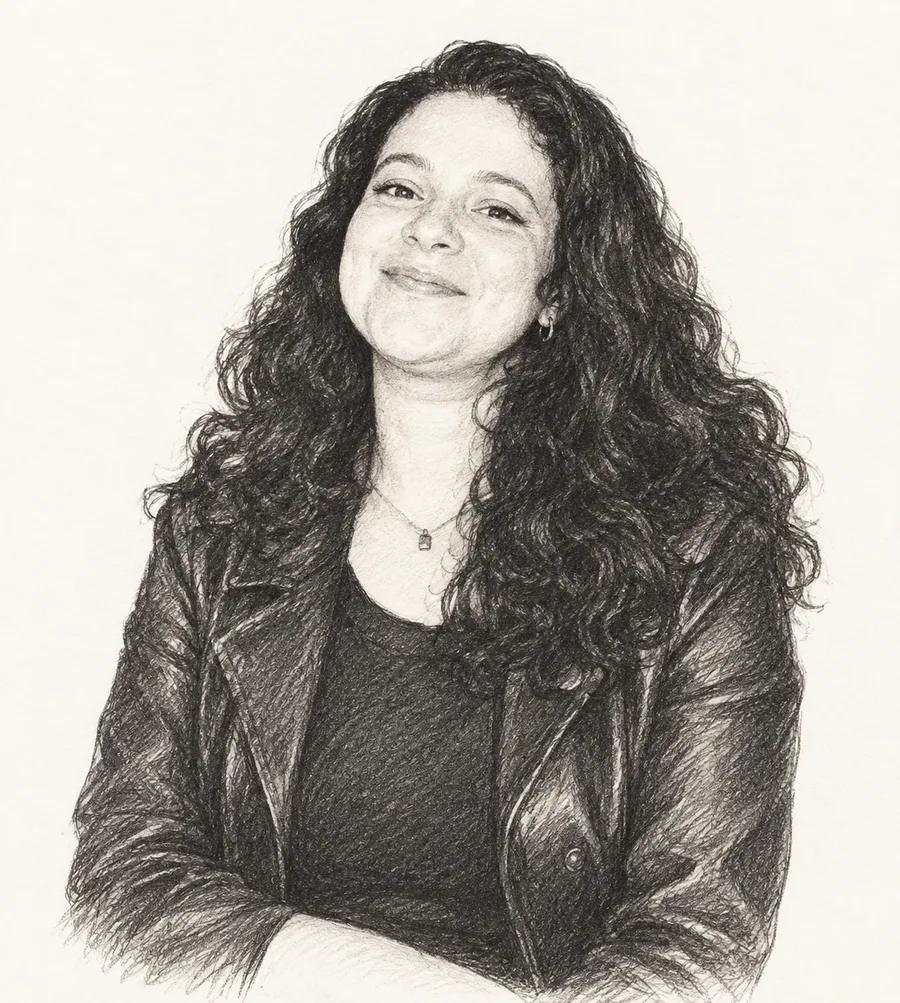
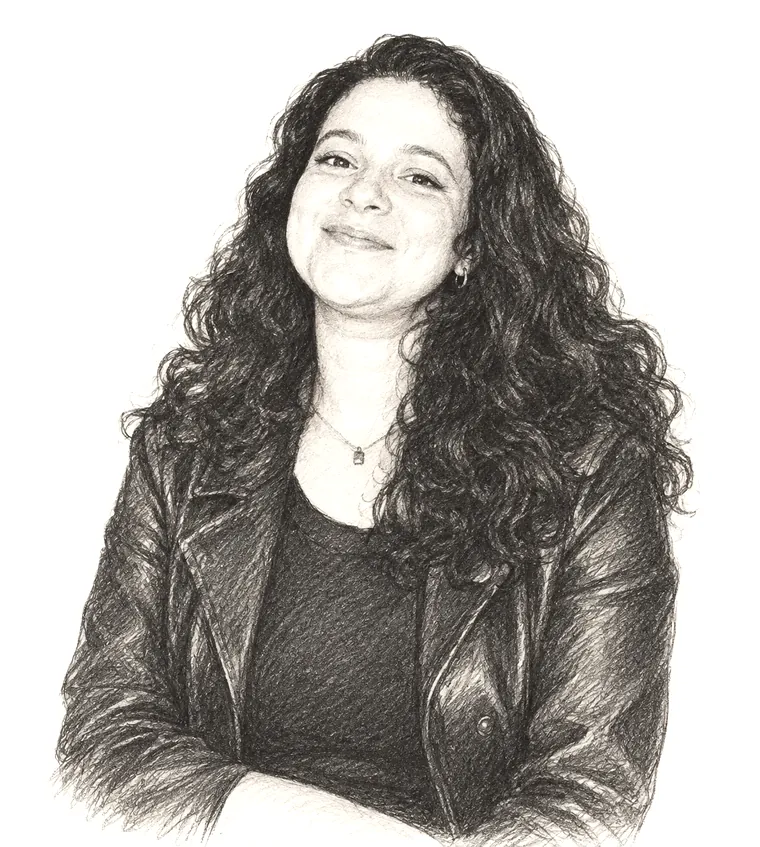
Add sketch portrait with drifting Alexandria map to About section
The pencil portrait sits beside the About text over a hand-drawn map of
Alexandria that slides and turns as the page scrolls. It stays still for
visitors who prefer reduced motion, stacks above the text on phones, and
sits on a light sheet in dark mode. The sketch's paper was whitened so it
blends into the page, which also replaces the larger transparent copy.

Claude-Session: https://claude.ai/code/session_01NE6ErSVsPQN87xJrjqYa3h

diff --git a/index.html b/index.html
@@ -47,6 +47,41 @@
 
     <section id="about" class="section">
       <h2><span class="num">I.</span> About</h2>
+      <div class="about">
+      <figure class="portrait">
+        <div class="portrait-map" aria-hidden="true">
+          <!-- Stylised map of Alexandria; it drifts as the page scrolls (see script at the bottom) -->
+          <svg viewBox="0 0 600 700" preserveAspectRatio="xMidYMid slice">
+            <path class="sea" d="M-20 150 C140 120 330 175 620 125" />
+            <path class="sea" d="M-20 110 C150 80 340 135 620 85" />
+            <path class="coast" d="M-20 210 C80 190 130 250 200 235 C260 222 265 165 310 172 C365 182 365 245 440 238 C510 232 550 200 620 208" />
+            <path class="harbour" d="M262 222 C275 150 352 150 368 222" />
+            <circle cx="310" cy="105" r="8" />
+            <text x="324" y="99">Pharos</text>
+            <text x="380" y="190" class="small">Eastern Harbour</text>
+            <line x1="-20" y1="360" x2="620" y2="322" />
+            <text x="400" y="318" class="small">Canopic Way</text>
+            <line x1="-20" y1="470" x2="620" y2="436" />
+            <line x1="-20" y1="570" x2="620" y2="538" />
+            <line x1="-20" y1="660" x2="620" y2="630" />
+            <line x1="40" y1="215" x2="70" y2="720" />
+            <line x1="125" y1="235" x2="155" y2="720" />
+            <line x1="210" y1="235" x2="240" y2="720" />
+            <line x1="300" y1="185" x2="330" y2="720" />
+            <line x1="390" y1="238" x2="420" y2="720" />
+            <line x1="475" y1="232" x2="505" y2="720" />
+            <line x1="560" y1="208" x2="590" y2="720" />
+            <g transform="translate(500 600)">
+              <circle r="38" />
+              <circle r="31" />
+              <path d="M0 -50 L7 0 L0 50 L-7 0 Z M-50 0 L0 -7 L50 0 L0 7 Z" />
+              <text y="-56" text-anchor="middle" class="small upright">N</text>
+            </g>
+          </svg>
+        </div>
+        <img src="assets/img/portrait-sketch.webp" width="760" height="847"
+             alt="Pencil portrait of Hasnaa Abdalla, smiling, with long curly hair and a leather jacket">
+      </figure>
       <div class="prose">
         <p class="dropcap">
           I was born in Alexandria and moved to Doha as a young child. My interest in art and
@@ -61,6 +96,7 @@
           Middle East and lead grants work for a STEM education nonprofit, helping good programmes
           find the funding they need.
         </p>
+      </div>
       </div>
     </section>
 
@@ -182,6 +218,26 @@
     <p>&copy; <span id="year">2026</span> Hasnaa Abdalla</p>
   </footer>
 
-  <script>document.getElementById('year').textContent = new Date().getFullYear();</script>
+  <script>
+    document.getElementById('year').textContent = new Date().getFullYear();
+
+    // Portrait: drift the map behind the sketch as the page scrolls.
+    (function () {
+      var fig = document.querySelector('.portrait');
+      if (!fig || matchMedia('(prefers-reduced-motion: reduce)').matches) return;
+      var ticking = false;
+      function update() {
+        var r = fig.getBoundingClientRect(), vh = innerHeight;
+        var p = (vh - r.top) / (vh + r.height);   // 0 as it enters the screen, 1 as it leaves
+        fig.style.setProperty('--p', Math.max(0, Math.min(1, p)).toFixed(4));
+        ticking = false;
+      }
+      addEventListener('scroll', function () {
+        if (!ticking) { ticking = true; requestAnimationFrame(update); }
+      }, { passive: true });
+      addEventListener('resize', update);
+      update();
+    })();
+  </script>
 </body>
 </html>

diff --git a/assets/css/style.css b/assets/css/style.css
@@ -219,6 +219,79 @@ h3 {
   color: var(--accent);
 }
 
+/* ---------- Portrait (About) ----------
+   A pencil sketch over a hand-drawn map of Alexandria.
+   --p (0 to 1) is set by the script in index.html as the figure scrolls past. */
+
+.about {
+  display: grid;
+  grid-template-columns: minmax(0, 1fr) minmax(15rem, 24rem);
+  gap: 3rem;
+  align-items: center;
+}
+.about .prose { grid-column: 1; grid-row: 1; }
+
+.portrait {
+  --p: .5;
+  grid-column: 2; grid-row: 1;
+  position: relative;
+  margin: 0;
+  isolation: isolate;
+  background: var(--paper);          /* gives the multiply blend a paper colour to mix with */
+}
+.portrait img {
+  position: relative;
+  display: block;
+  width: 100%;
+  height: auto;
+  mix-blend-mode: multiply;          /* the white paper of the sketch disappears */
+}
+.portrait-map {
+  position: absolute;
+  inset: -12%;
+  z-index: -1;
+  overflow: hidden;
+  pointer-events: none;
+  -webkit-mask-image: radial-gradient(closest-side, #000 62%, transparent);
+          mask-image: radial-gradient(closest-side, #000 62%, transparent);
+}
+.portrait-map svg {
+  width: 100%;
+  height: 100%;
+  transform: translateY(calc((var(--p) - .5) * -22%)) rotate(calc((var(--p) - .5) * 10deg)) scale(1.15);
+  will-change: transform;
+}
+.portrait-map path,
+.portrait-map line,
+.portrait-map circle { fill: none; stroke: var(--ink-soft); stroke-opacity: .4; stroke-width: 1.2; }
+.portrait-map .coast { stroke: var(--accent); stroke-opacity: .75; stroke-width: 2; }
+.portrait-map .sea { stroke-dasharray: 2 6; }
+.portrait-map .harbour { stroke-dasharray: 4 4; }
+.portrait-map text {
+  font-family: var(--display);
+  font-style: italic;
+  font-size: 20px;
+  fill: var(--ink-soft);
+  opacity: .8;
+}
+.portrait-map .small { font-size: 15px; }
+.portrait-map .upright { font-style: normal; }
+
+/* Dark mode: keep the drawing on a light sheet so it isn't lost on the dark page */
+@media (prefers-color-scheme: dark) {
+  :root:not([data-theme="light"]) .portrait {
+    --ink-soft: #5c524a;
+    --accent: #9a4a2f;
+    background: #f5efe4;
+    padding: 1rem 1rem 0;
+    border: 1px solid var(--rule);
+    outline: 1px solid var(--rule);
+    outline-offset: 6px;
+    overflow: hidden;
+  }
+  :root:not([data-theme="light"]) .portrait-map { inset: 0; }
+}
+
 /* ---------- Gallery ---------- */
 
 .gallery {
@@ -374,6 +447,12 @@ h3 {
   .two-col { grid-template-columns: 1fr; gap: 1rem; }
   .timeline li { grid-template-columns: 1fr; gap: .2rem; }
   .gallery { grid-template-columns: 1fr; }
+}
+
+@media (max-width: 820px) {
+  .about { grid-template-columns: 1fr; gap: 1.5rem; }
+  .portrait { grid-column: 1; grid-row: 1; width: min(100%, 22rem); margin: 0 auto 1rem; }
+  .about .prose { grid-row: 2; }
 }
 
 @media print {

diff --git a/ideas/portrait.html b/ideas/portrait.html
@@ -33,7 +33,7 @@
               mask-image: radial-gradient(closest-side, #000 72%, transparent); }
 
     /* Portrait treatments */
-    .sketch { position: relative; height: 100%; width: auto; max-width: 100%; object-fit: contain; z-index: 1; }
+    .sketch { mix-blend-mode: multiply; position: relative; height: 100%; width: auto; max-width: 100%; object-fit: contain; z-index: 1; }
     .arch-photo {
       position: relative; z-index: 1;
       width: min(22rem, 70vw); aspect-ratio: 3 / 4;
@@ -92,7 +92,6 @@
       .note p:not(.tag) { font-size: .98rem; }
     }
     @media (prefers-color-scheme: dark) {
-      :root:not([data-theme="light"]) .sketch--ink { filter: invert(1) sepia(.25); }
     }
     @media (prefers-reduced-motion: reduce) {
       .demo { --p: .5 !important; }
@@ -134,13 +133,13 @@
             </g>
           </svg>
         </div></div>
-        <img class="sketch sketch--ink" src="../assets/img/portrait-sketch-ink.webp" alt="Pencil portrait of Hasnaa Abdalla">
+        <img class="sketch sketch--ink" src="../assets/img/portrait-sketch.webp" alt="Pencil portrait of Hasnaa Abdalla">
       </div>
       <div class="note">
         <p class="tag">Idea 1 · Sketch</p>
         <h2>An old map drifts behind</h2>
         <p>A hand-drawn map of Alexandria (coastline, the Pharos, Canopic Way) slides and turns slowly as you scroll.</p>
-        <p>The sketch has its paper removed, so the map lines show through around you, like a drawing on top of an archive sheet.</p>
+        <p>The sketch's white paper blends into the page, so the map lines show through around you, like a drawing on top of an archive sheet.</p>
       </div>
     </div>
   </section>
@@ -174,7 +173,7 @@
           <div>Lisbon<span>·</span>Rotterdam<span>·</span>Paris<span>·</span>Glasgow<span>·</span>Doha<span>·</span>Alexandria<span>·</span>Lisbon<span>·</span>Rotterdam</div>
           <div>Doha<span>·</span>Glasgow<span>·</span>Alexandria<span>·</span>Lisbon<span>·</span>Paris<span>·</span>Rotterdam<span>·</span>Doha<span>·</span>Glasgow</div>
         </div></div>
-        <img class="sketch sketch--ink" src="../assets/img/portrait-sketch-ink.webp" alt="Pencil portrait of Hasnaa Abdalla">
+        <img class="sketch sketch--ink" src="../assets/img/portrait-sketch.webp" alt="Pencil portrait of Hasnaa Abdalla">
       </div>
       <div class="note">
         <p class="tag">Idea 3 · Sketch</p>
